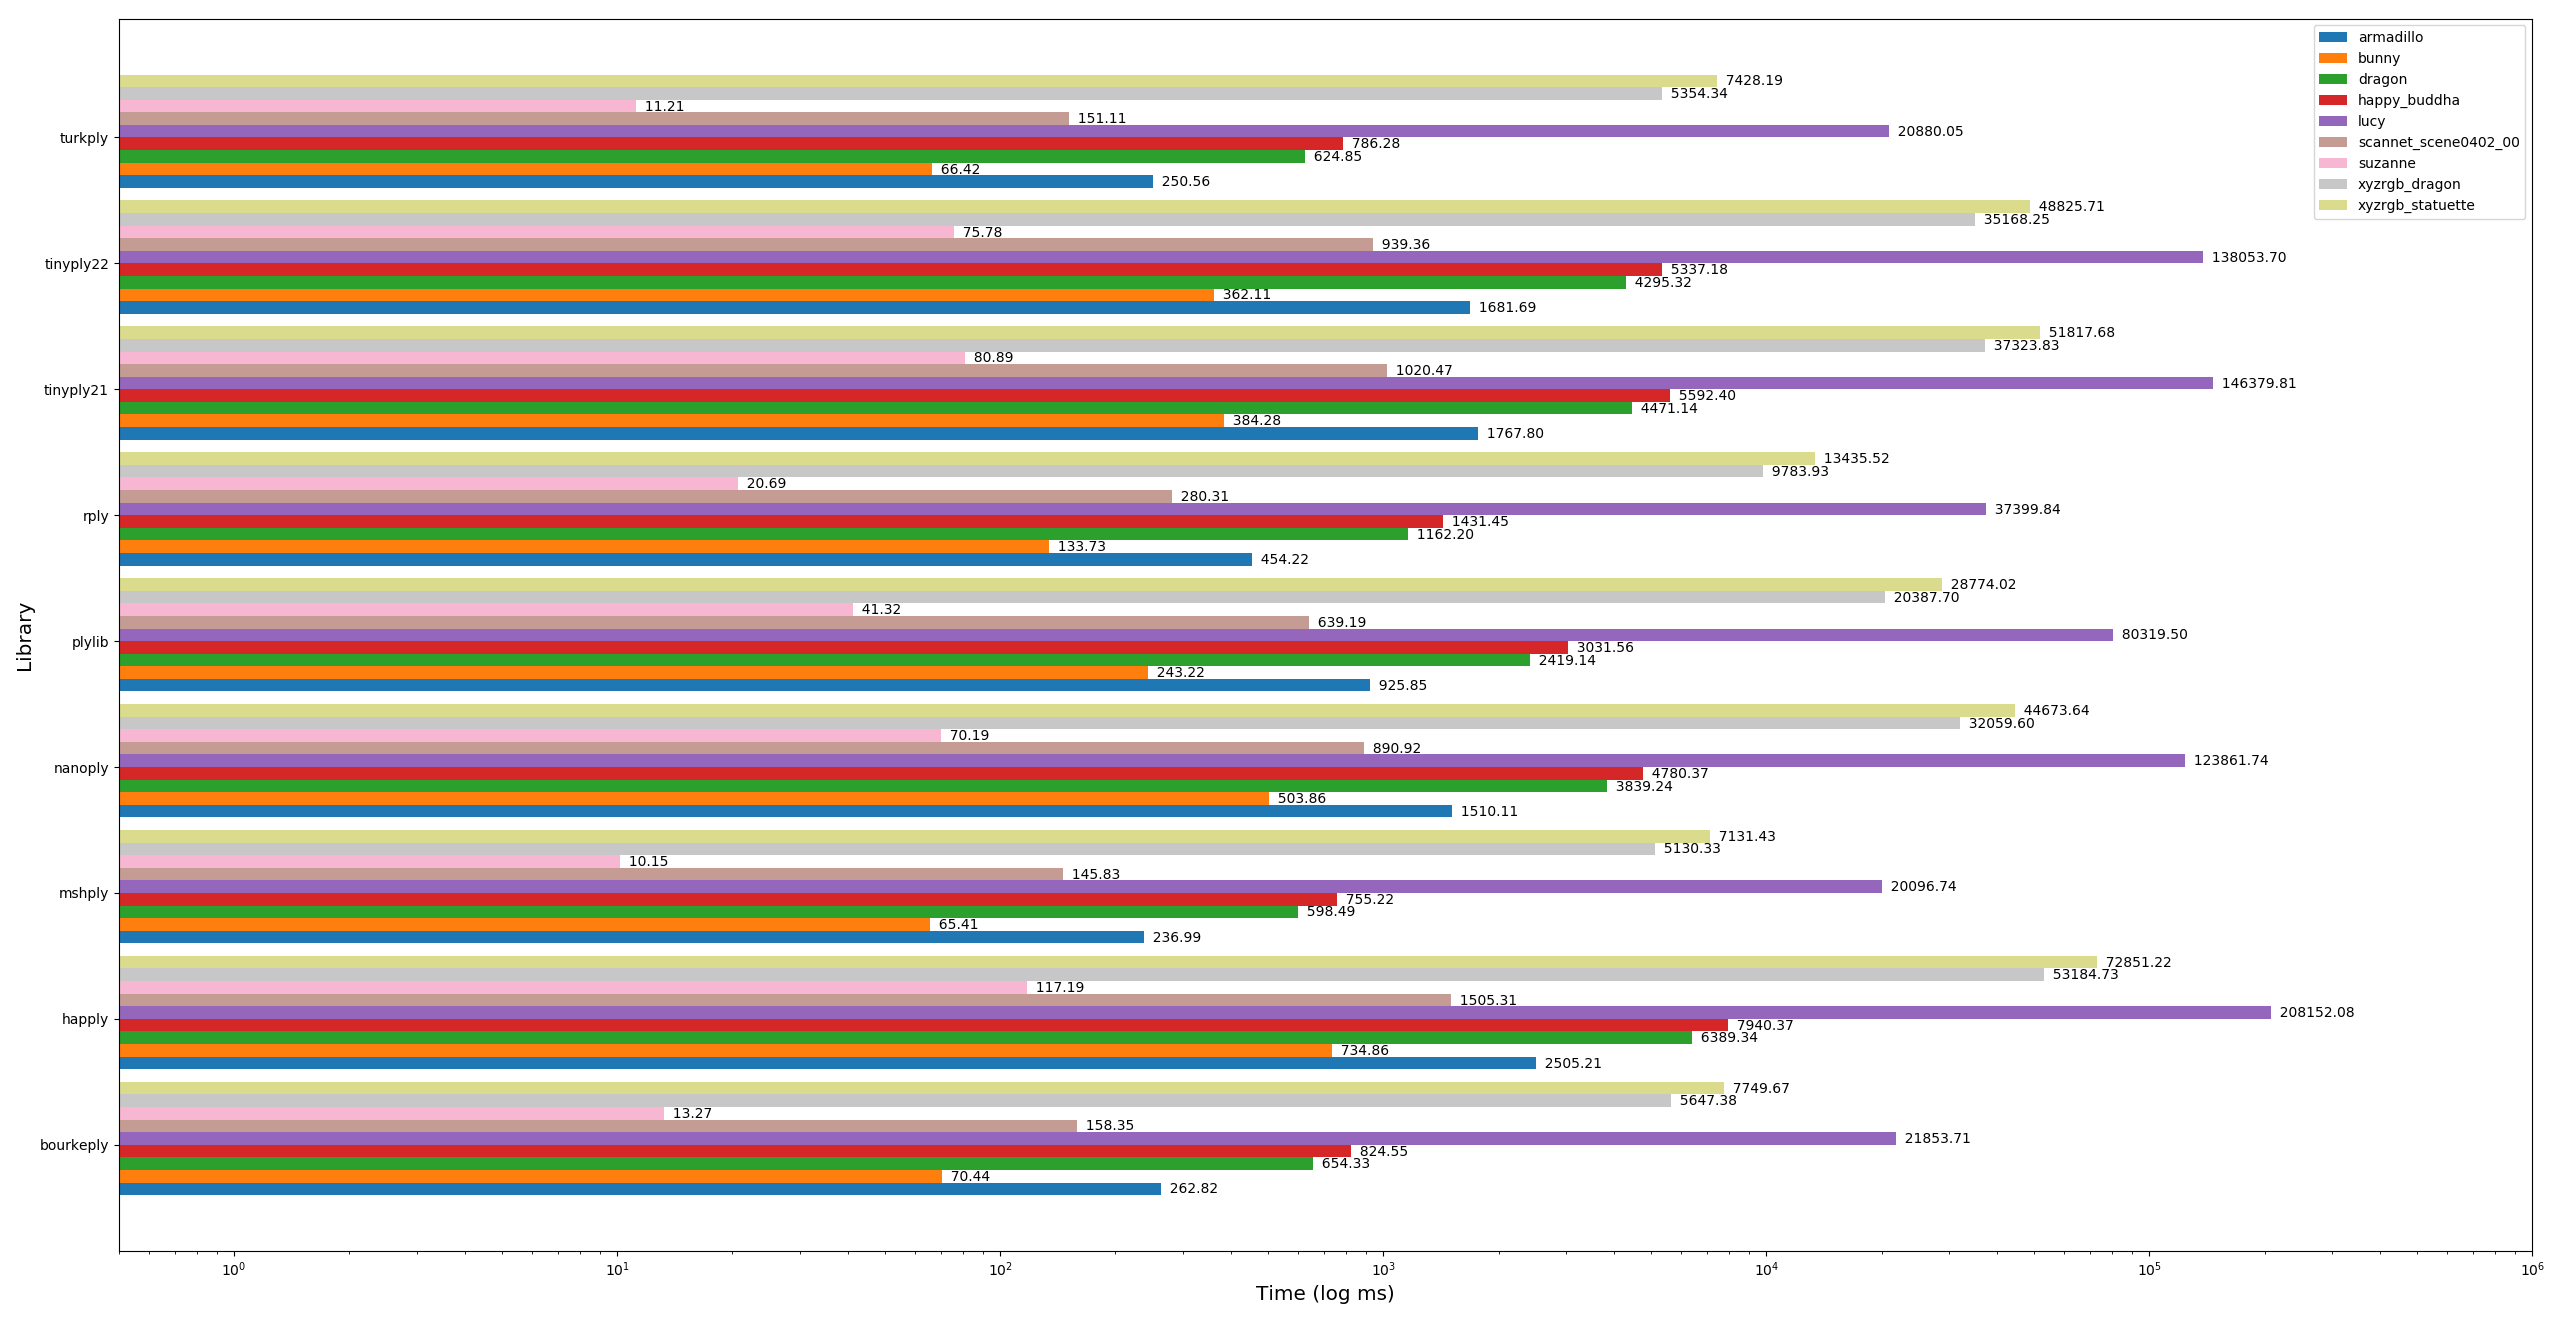
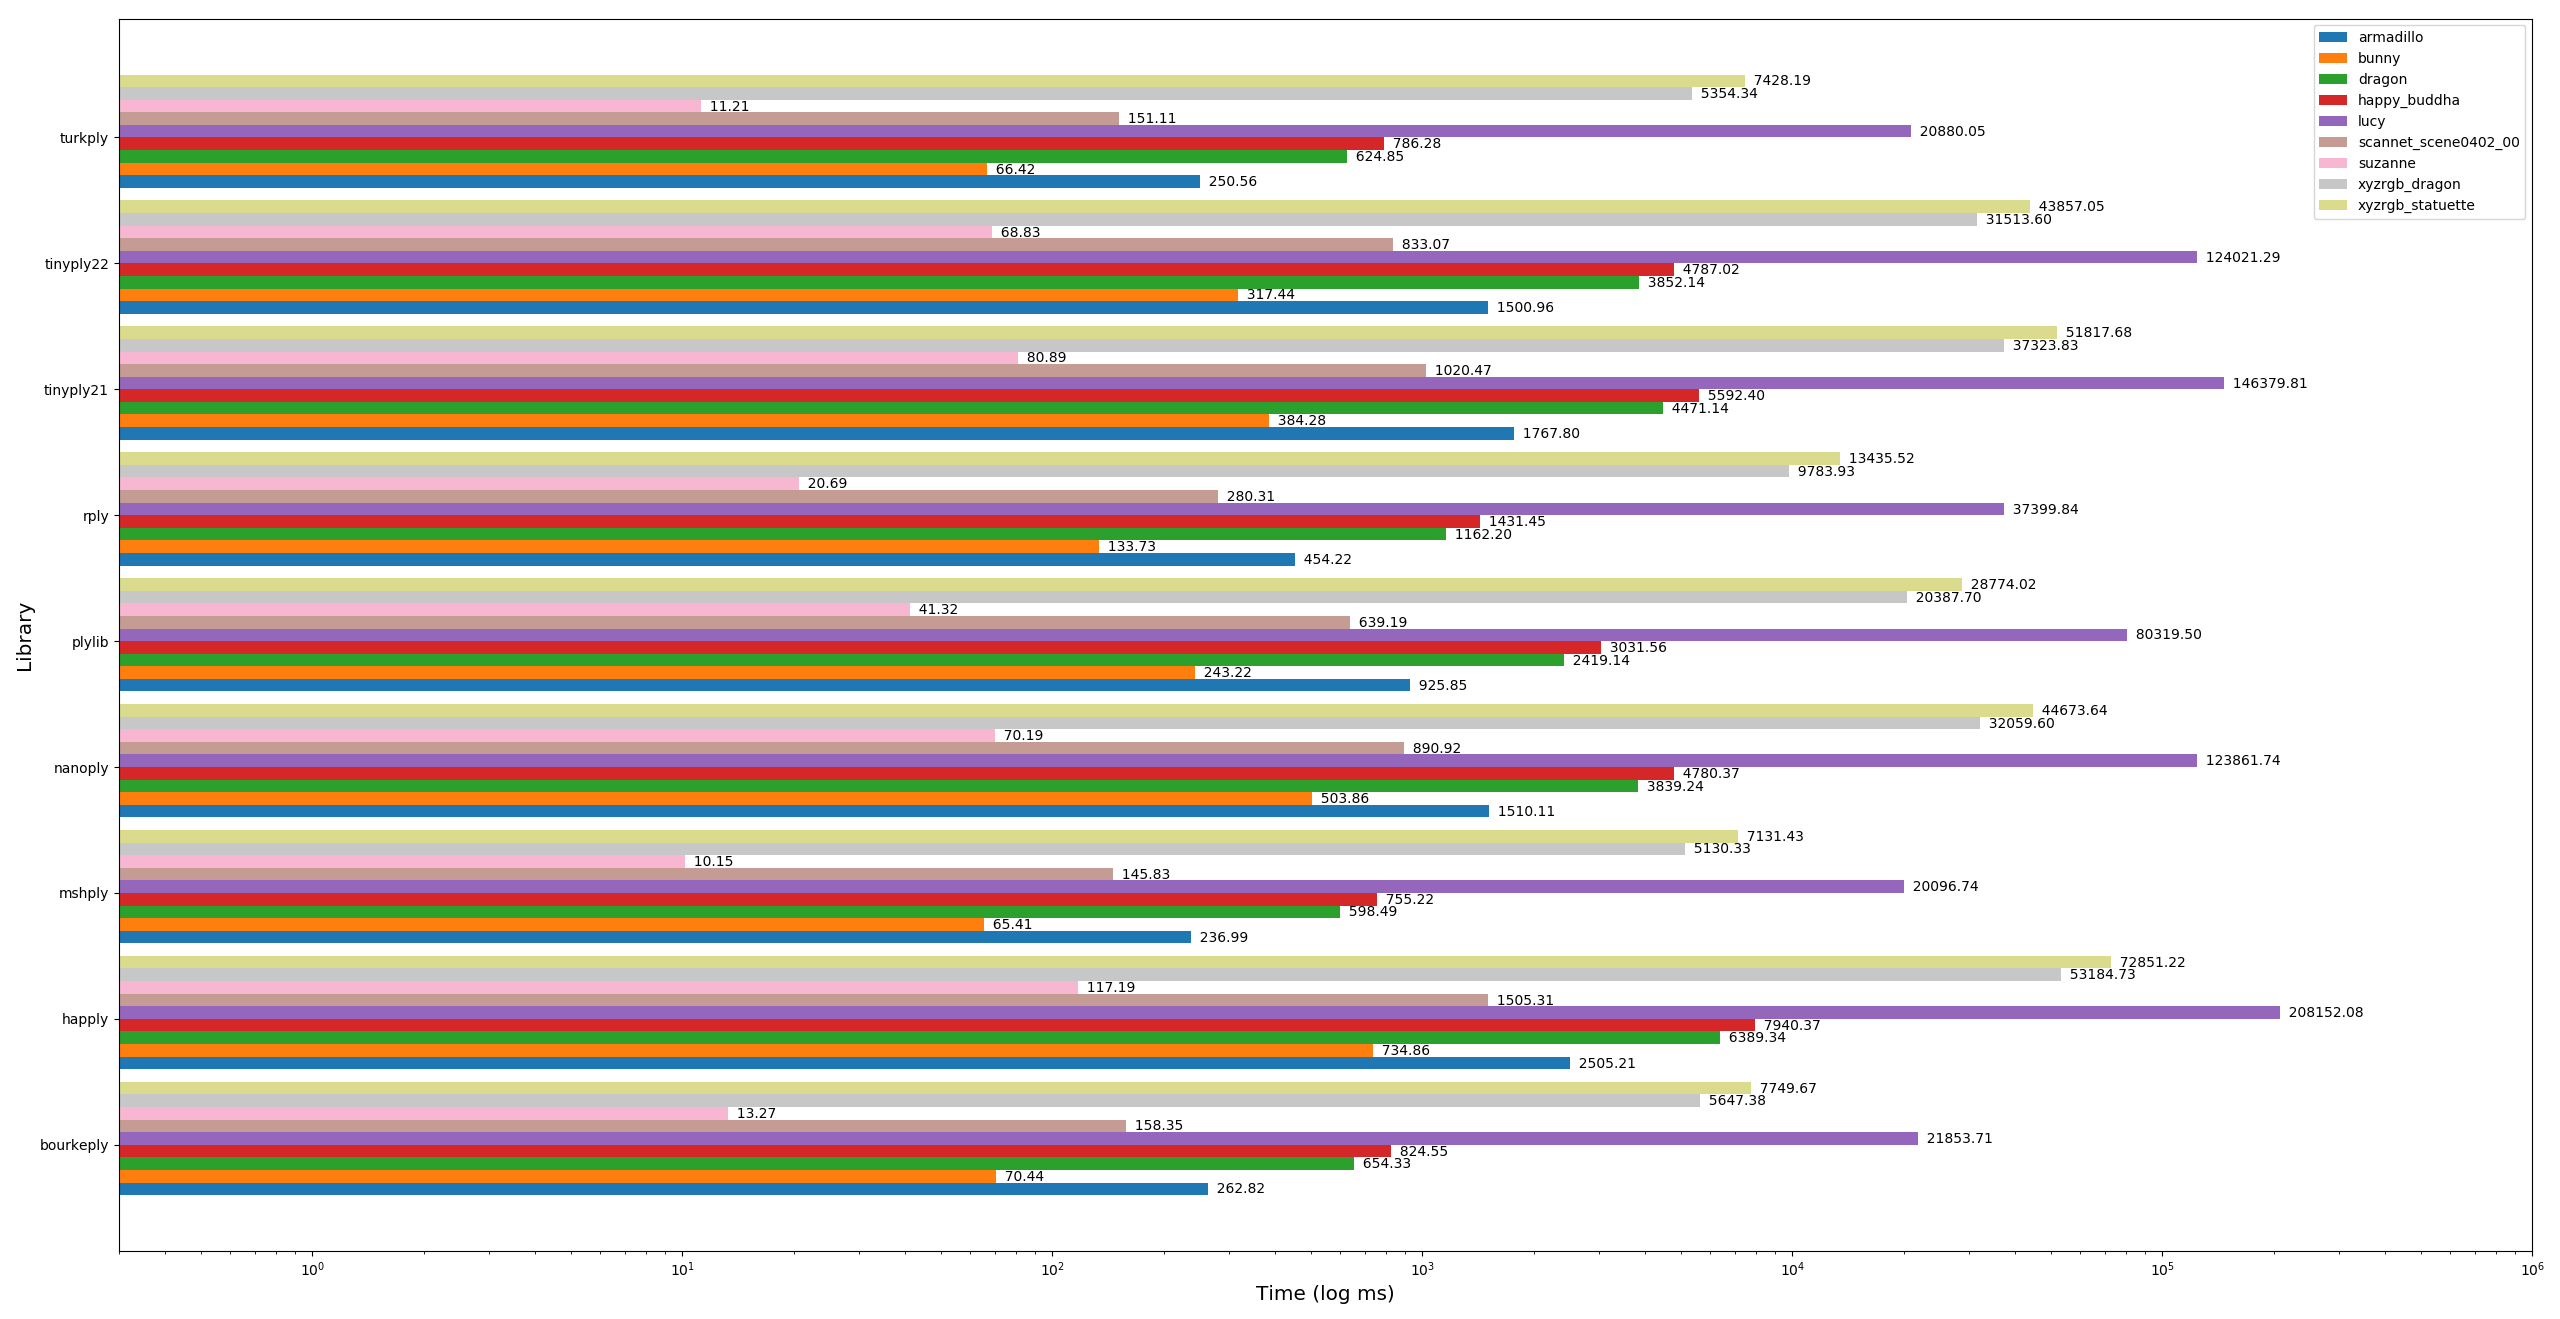
Fixed tinyply2.2 to assume list size

diff --git a/tinyply22_test.cpp b/tinyply22_test.cpp
@@ -67,7 +67,7 @@ read_ply( const char* filename, TriMesh* mesh)
   
   std::shared_ptr<PlyData> verts, faces;
   verts = file.request_properties_from_element("vertex", {"x", "y", "z"});
-  faces = file.request_properties_from_element("face", { "vertex_indices" });
+  faces = file.request_properties_from_element("face", { "vertex_indices" }, 3);
 
   file.read(ss);
   {
